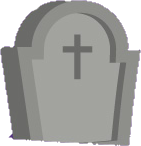
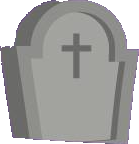
Final por rendición

diff --git a/halloween/pagina.css b/halloween/pagina.css
@@ -1,5 +1,6 @@
 body{
     margin: 0;
+    background-color: #4a2e6b;
 }
 
 #halloween{
@@ -15,12 +16,12 @@ body{
 
 #murcielago {
     position: absolute;
-    top: 384px;
-    right: 627px;
+    top: 424px;
+    right: 616px;
 }
 
 #img_murcielago{
-    width: 92px;
+    width: 100px;
     opacity: 0;
     transition: ease-in-out 1s;
 }
@@ -31,12 +32,12 @@ body{
 
 #ojosCalabaza{
     position: absolute;
-    left: 954px;
-    top: 646px;
+    left: 977px;
+    top: 715px;
 }
 
 #ojoIzq,#ojoDcho{
-    width: 78px;
+    width: 83px;
     transition: transform linear 3s;
     opacity: 1;
 }
@@ -46,11 +47,82 @@ body{
 }
 
 #ojoDcho{
-    margin-left: 34px;
+    margin-left: 41px;
     margin-top: 11px;
 }
 
 #ojosCalabaza img:hover{
     opacity: 1;
     transform: rotate(360deg);
+}
+
+#lunaDream {
+    position: absolute;
+    left: 653px;
+    top: 285px;
+}
+
+#lunaDream img{
+    width: 152px;
+    transition: width ease 3s;
+}
+
+#lunaDream img:hover{
+    width: 100px;
+}
+
+#tumba{
+    position: absolute;
+    left: 800px;
+    top: 761px;
+}
+
+#tumba img{
+    width: 80px;
+    transition: width 4s, transform 3s;
+}
+
+#tumba img:hover{
+    width: 130px;
+    transform: rotate(360deg);
+}
+
+#agatha{
+    position: absolute;
+    left: 238px;
+    top: 147px;
+    transition: left 2s, top 2s, width 2s;
+}
+
+#agatha img{
+    width: 142px;
+}
+
+#agatha:hover{
+    left: 716px;
+    top: 623px;
+}
+
+#wiccan {
+    position: absolute;
+    left: 1013px;
+    top: 330px;
+}
+
+#chaval {
+    width: 132px;
+}
+
+#corona{
+    rotate: 11deg;
+    left: 24px;
+    position: absolute;
+    top: -13px;
+    width: 48px;
+    opacity: 0;
+    transition: opacity 2s;
+}
+
+#corona:hover{
+    opacity: 1;
 }

diff --git a/halloween/pagina.html b/halloween/pagina.html
@@ -18,7 +18,17 @@
             <img id="ojoDcho" src="./img/ojo.png" alt="Ojo derecho">
         </div>
         <div id="lunaDream">
-            <img src="" alt="">
+            <img src="./img/luna.png" alt="Luna de Dreamworks">
+        </div>
+        <div id="tumba">
+            <img src="./img/tumba.png" alt="Tumba">
+        </div>
+        <div id="agatha">
+            <img src="./img/agatha.webp" alt="Agatha Harkness">
+        </div>
+        <div id="wiccan">
+            <img id="chaval" src="./img/wiccan.png" alt="Wiccan">
+            <img id="corona" src="./img/crown.webp" alt="Corona de Wiccan">
         </div>
     </div>
 </body>
